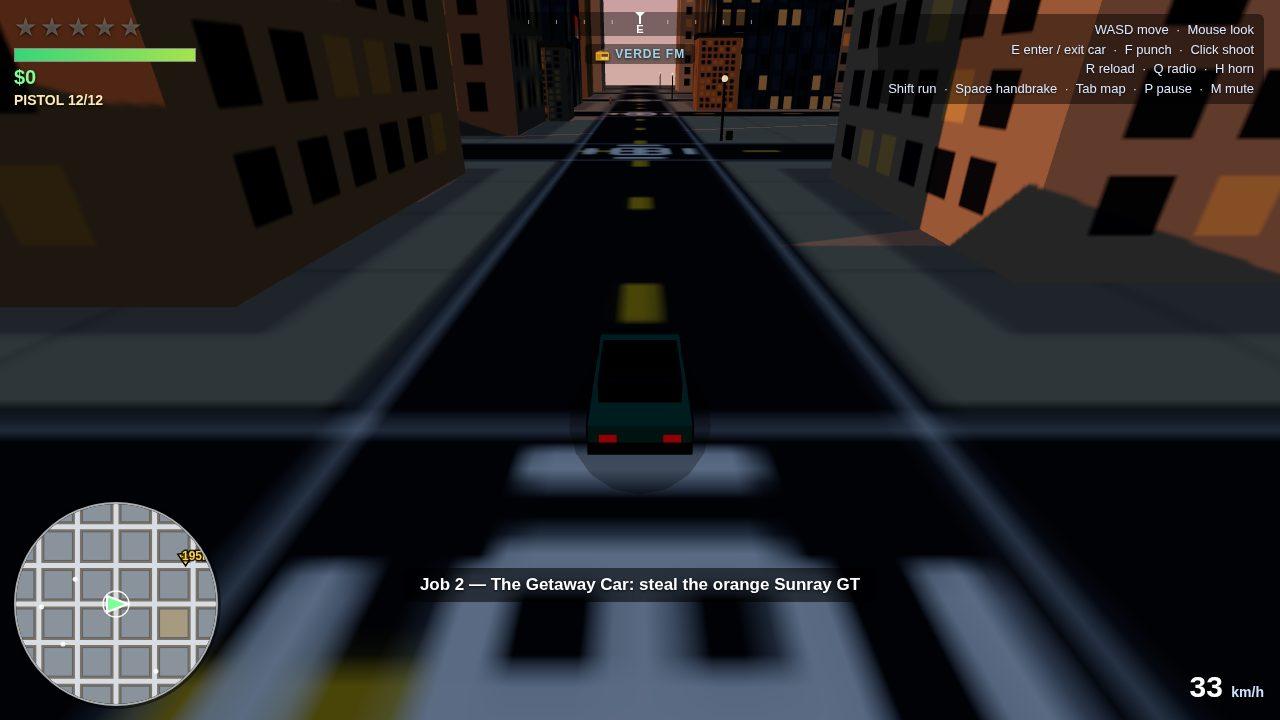
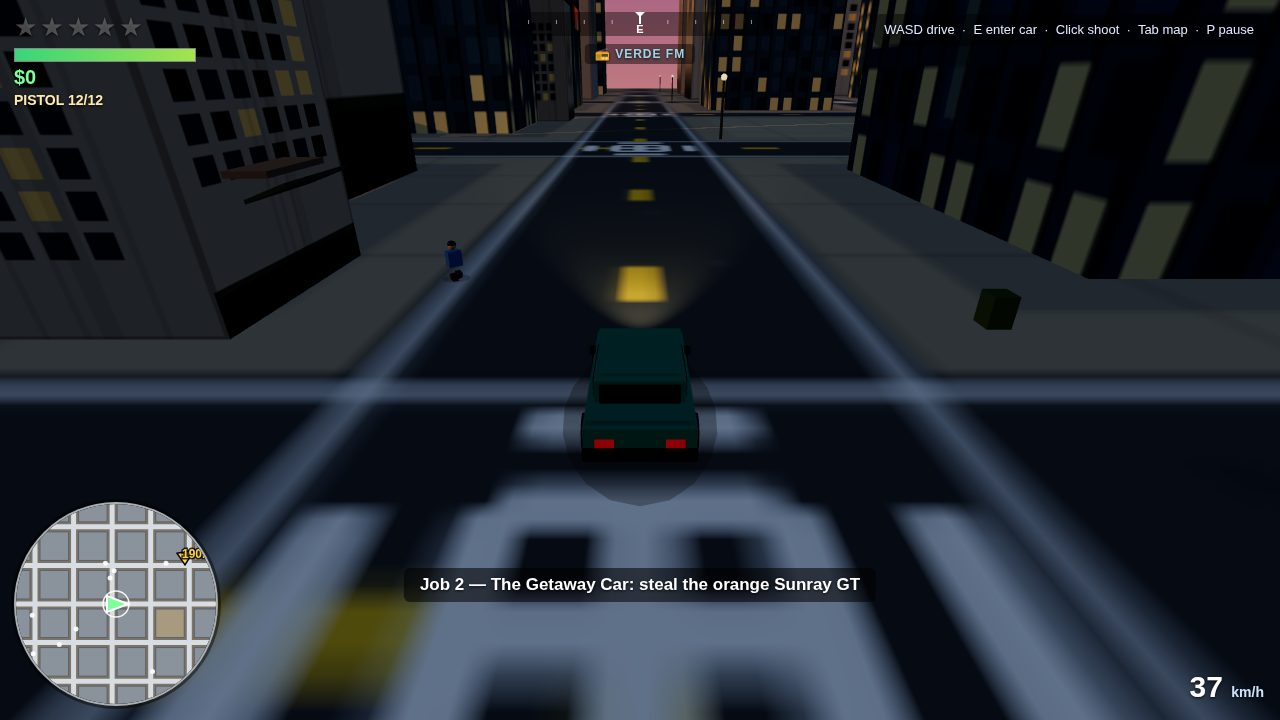
Porto Verde v4 (part 2): cabin paint fix, lose-the-cops rebalance, new screenshots
- Fix: car recolour sites mutated the shared body material instead of
  replacing children[0].material, so the cabin, hood, deck and roof now
  match the body paint (v4 bug: GT rendered orange body + black cabin)
- Fix: lose-the-cops thresholds 70/40/10s -> 50/30/8s, verified: hidden
  timer accumulates when clear, wanted 3 -> 2 on crossover
- Screenshots: all 4 replaced with v4 renders (chase, drive, foot, menu)
  - 01-chase: orange GT chase, 59 km/h, headlight beam, police cruisers
  - 02-drive: Downtown avenue vista, teal car, pedestrian, towers
  - 03-foot: Mara on foot at Old Town market, slim beacon
  - 04-menu: title screen over the orbiting 3D city
- All three missions verified end-to-end (M1 $400, M2 $800, M3 $2,300);
  story-end dialogue confirmed; zero JS exceptions in all probes
- main.ts verify: exit 0, dossier text 138,392 / 163,840 chars

diff --git a/game/src/traffic.js b/game/src/traffic.js
@@ -65,8 +65,10 @@ export function spawnTrafficCar(G) {
   const types = ['sedan', 'sedan', 'sedan', 'suv', 'van', 'taxi', 'sports'];
   const type = types[Math.floor(rng() * types.length)];
   const car = createCar(G, rp.x, rp.z, rp.angle, 0, { isTraffic: true, driver: 'traffic', type, maxSpeed: 8 + rng() * 4, accel: 8 });
-  // colour it properly (createCar takes a colour; re-colour the body, keeping the Phong sheen)
-  car.group.children[0].material = new THREE.MeshPhongMaterial({ color: [0x9e3b2e, 0x33567a, 0xb08d2e, 0xb0b0b0, 0x3f444a, 0x3f6b46][Math.floor(rng() * 6)], shininess: 60, specular: 0x555555 });
+  // colour it properly (createCar takes a colour; re-colour the paint — mutate
+  // the shared body material so the cabin, hood, deck and roof match the body;
+  // v4 bug: replacing children[0].material left the cabin black)
+  car.group.children[0].material.color.set([0x9e3b2e, 0x33567a, 0xb08d2e, 0xb0b0b0, 0x3f444a, 0x3f6b46][Math.floor(rng() * 6)]);
   car.cruise = car.maxSpeed;
   car.wp = nextWaypoint(G, car);
   return car;
@@ -101,7 +103,7 @@ export function createTraffic(G) {
   for (let i = 0; i < 8; i++) { // extra traffic near the start (-54, 30)
     const rp = nearPlayerRoadPoint(G.rng, -54, 30, 160);
     const car = createCar(G, rp.x, rp.z, rp.angle, 0, { isTraffic: true, driver: 'traffic', type: 'sedan', maxSpeed: 8 + G.rng() * 4, accel: 8 });
-    car.group.children[0].material = new THREE.MeshPhongMaterial({ color: [0x9e3b2e, 0x33567a, 0xb08d2e, 0xb0b0b0, 0x3f444a, 0x3f6b46][Math.floor(G.rng() * 6)], shininess: 60, specular: 0x555555 });
+    car.group.children[0].material.color.set([0x9e3b2e, 0x33567a, 0xb08d2e, 0xb0b0b0, 0x3f444a, 0x3f6b46][Math.floor(G.rng() * 6)]);
     car.cruise = car.maxSpeed;
     car.wp = nextWaypoint(G, car);
     G.traffic.push(car);
@@ -122,7 +124,7 @@ export function createTraffic(G) {
   for (let si = 0; si < parkedSpots.length; si++) {
     const [x, z, a] = parkedSpots[si];
     const car = createCar(G, x, z, a, 0, { type: parkedTypes[si % parkedTypes.length], maxSpeed: 30, accel: 16 });
-    car.group.children[0].material = new THREE.MeshPhongMaterial({ color: [0x9e3b2e, 0x33567a, 0xb08d2e, 0xb0b0b0, 0x3f6b46, 0x5f4a6e][G.parked.length % 6], shininess: 60, specular: 0x555555 });
+    car.group.children[0].material.color.set([0x9e3b2e, 0x33567a, 0xb08d2e, 0xb0b0b0, 0x3f6b46, 0x5f4a6e][G.parked.length % 6]);
     G.parked.push(car);
   }
   // pedestrians standing in chatting pairs on corners (they idle, no target)
@@ -138,7 +140,7 @@ export function createTraffic(G) {
   }
   // the player's starting car, parked on the road just ahead of the spawn
   const start = createCar(G, -54, 38, 0, 0, { maxSpeed: 32, accel: 18 });
-  start.group.children[0].material = new THREE.MeshPhongMaterial({ color: 0x1f6f6b, shininess: 60, specular: 0x555555 });
+  start.group.children[0].material.color.set(0x1f6f6b);
   G.playerStartCar = start;
 }
 

diff --git a/game/src/vehicles.js b/game/src/vehicles.js
@@ -51,8 +51,14 @@ export function makeCarMesh(color, isPolice, type = 'sedan') {
   body.position.y = t.bodyY; body.castShadow = true; g.add(body);
   addCarDetails(g, t, bodyMat, glassMat, darkMat);
   if (t.cabinH > 0) {
-    const cabin = new THREE.Mesh(new THREE.BoxGeometry(1.7, t.cabinH, t.cabinLen), glassMat);
+    // v4: painted cabin so the dark side-glass panels read as windows (v3's
+    // all-glass cabin was one dark box); windshield + rear window in glass.
+    const cabin = new THREE.Mesh(new THREE.BoxGeometry(1.7, t.cabinH, t.cabinLen), bodyMat);
     cabin.position.set(0, t.cabinY, -0.25); cabin.castShadow = true; g.add(cabin);
+    const shield = new THREE.Mesh(new THREE.BoxGeometry(1.5, t.cabinH * 0.75, 0.06), glassMat);
+    shield.position.set(0, t.cabinY, -0.25 + t.cabinLen / 2 + 0.01); shield.rotation.x = -0.18; g.add(shield);
+    const rear = new THREE.Mesh(new THREE.BoxGeometry(1.5, t.cabinH * 0.75, 0.06), glassMat);
+    rear.position.set(0, t.cabinY, -0.25 - t.cabinLen / 2 - 0.01); rear.rotation.x = 0.18; g.add(rear);
     const roof = new THREE.Mesh(new THREE.BoxGeometry(1.5, 0.08, t.cabinLen - 0.4), bodyMat);
     roof.position.set(0, t.cabinY + t.cabinH / 2 + 0.02, -0.25); g.add(roof);
   } else {

diff --git a/game/src/missions.js b/game/src/missions.js
@@ -79,7 +79,7 @@ export function startMission(G, index) {
     if (index === 0) {
       // stage 0: tail the courier's van to the market — stay close, don't spook him
       const courier = createCar(G, t.courier.x, t.courier.z, 0, 0, { type: 'van', driver: 'courier', maxSpeed: 15, accel: 8 });
-      courier.group.children[0].material = new THREE.MeshPhongMaterial({ color: 0x8a5a2e, shininess: 40, specular: 0x444444 });
+      courier.group.children[0].material.color.set(0x8a5a2e);
       G.courierCar = courier;
       m.tailCar = courier;
       m.tailWp = 0;
@@ -91,7 +91,7 @@ export function startMission(G, index) {
     } else if (index === 1) {
       // park the getaway car in Downtown
       const car = createCar(G, t.car.x, t.car.z, 0.8, 0, { missionCar: true, maxSpeed: 34, accel: 20 });
-      car.group.children[0].material = new THREE.MeshPhongMaterial({ color: 0xe86a10, shininess: 60, specular: 0x555555 });
+      car.group.children[0].material.color.set(0xe86a10);
       G.missionCar = car;
       m.target = t.car; m.stage2 = t.deliver;
       G.hud.setObjective(`${def.name}: ${t.car.label}`);

diff --git a/game/src/police.js b/game/src/police.js
@@ -199,14 +199,17 @@ export function updatePolice(G, dt) {
     }
   } else if (G.roadblock) removeRoadblock(G);
   // --- losing the cops: out of sight for a while, and the heat drops ---
+  // v4: relaxed (v3: 70/40/10 s) — pursuit cars actively close in, so the old
+  // rule almost never fired; hiding 12 s left wanted at 3 in the v3/v4 probes.
+  // Driving away fast now keeps you clear long enough to cool off.
   let nearestOfficer = 1e9;
   for (const o of G.officers) {
     nearestOfficer = Math.min(nearestOfficer, Math.hypot(o.pos.x - G.player.pos.x, o.pos.z - G.player.pos.z));
   }
-  if (G.wanted > 0 && nearest > 70 && nearestOfficer > 40) {
+  if (G.wanted > 0 && nearest > 50 && nearestOfficer > 30) {
     G.hiddenTimer = (G.hiddenTimer || 0) + dt;
     if (G.hiddenTimer > 6 && !G.losingShown) { G.losingShown = true; G.hud.toast('You are losing them — stay out of sight!'); }
-    if (G.hiddenTimer > 10) {
+    if (G.hiddenTimer > 8) {
       G.hiddenTimer = 0; G.losingShown = false;
       G.setWanted(G.wanted - 1);
       if (G.wanted === 0) G.hud.toast('You lost them.');

diff --git a/game/src/shots.js b/game/src/shots.js
@@ -27,7 +27,7 @@ export function setupShot(G, shot) {
     // wanted 3, in the orange GT (sports) on the north-south avenue, police already on the tail,
     // Downtown towers + neon ahead, golden hour — the cover shot
     const car = createCar(G, 54, 100, Math.PI, 0, { type: 'sports', maxSpeed: 34, accel: 21 });
-    car.group.children[0].material = new THREE.MeshPhongMaterial({ color: 0xe86a10, shininess: 60, specular: 0x555555 });
+    car.group.children[0].material.color.set(0xe86a10);
     car.pos.set(54, 0, 100); car.angle = Math.PI; car.speed = 20; car.maxSpeed = 34;
     p.car = car; p.onFoot = false; car.driver = 'player'; car.isTraffic = false;
     p.group.visible = false;
